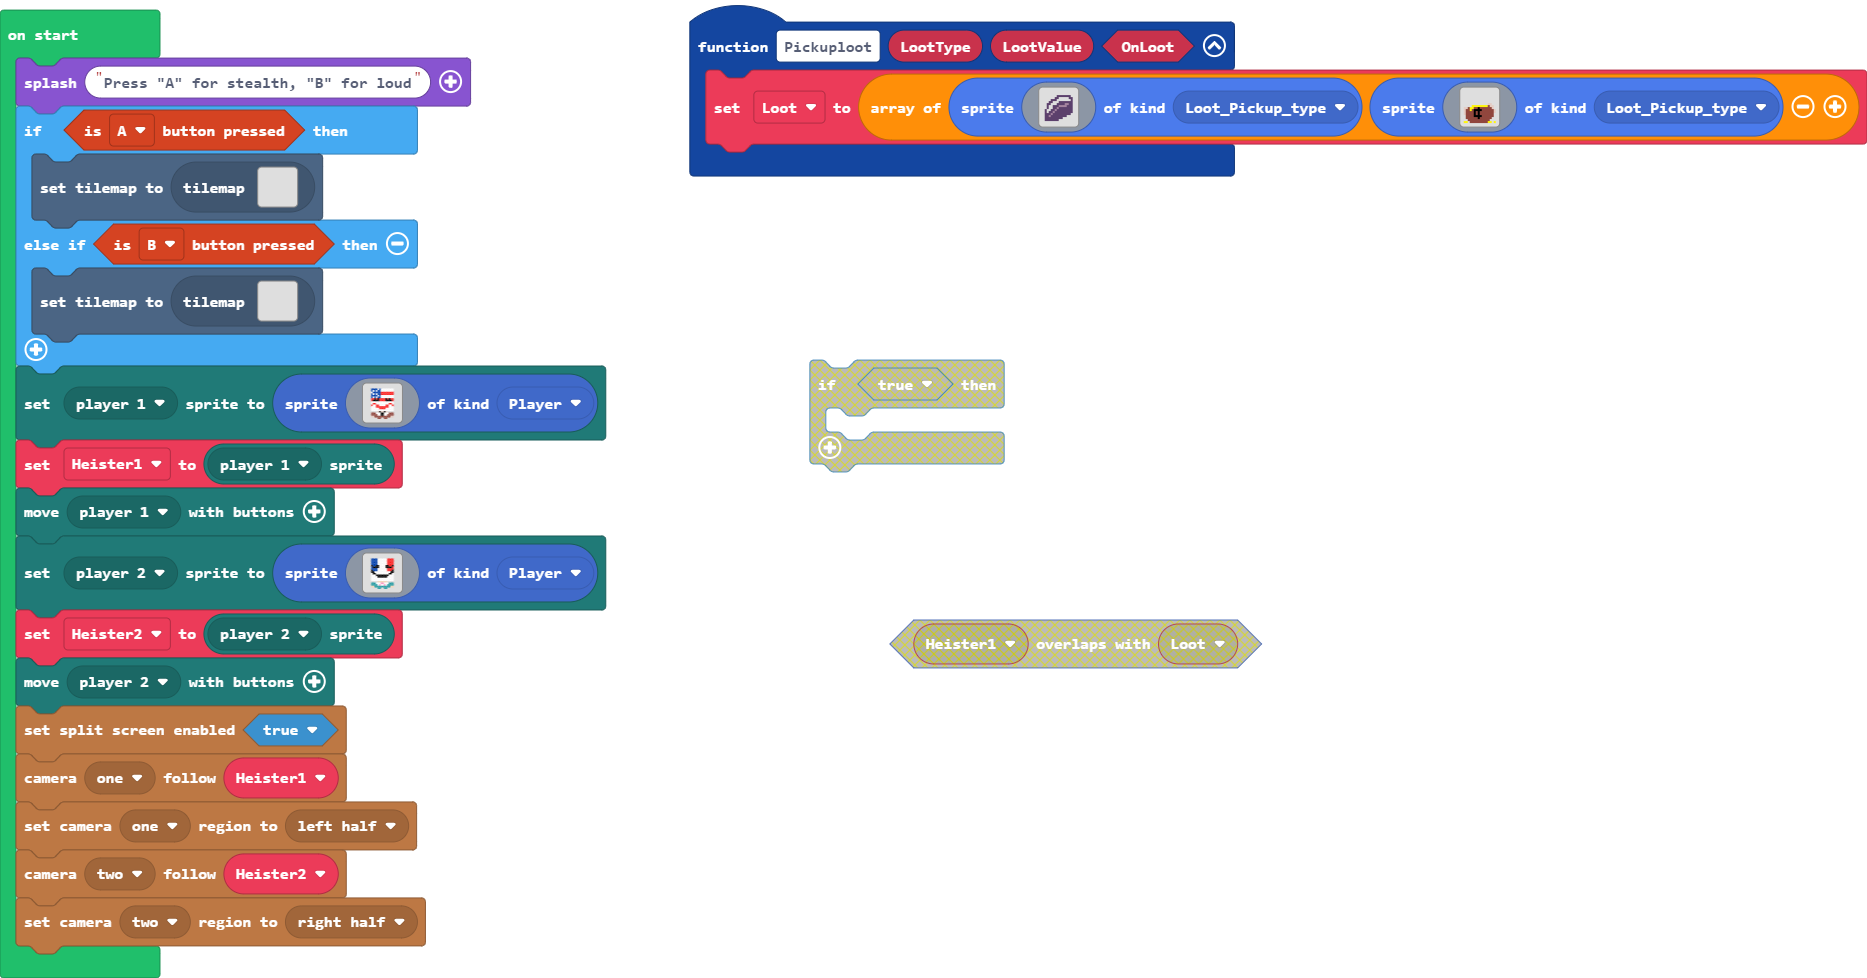
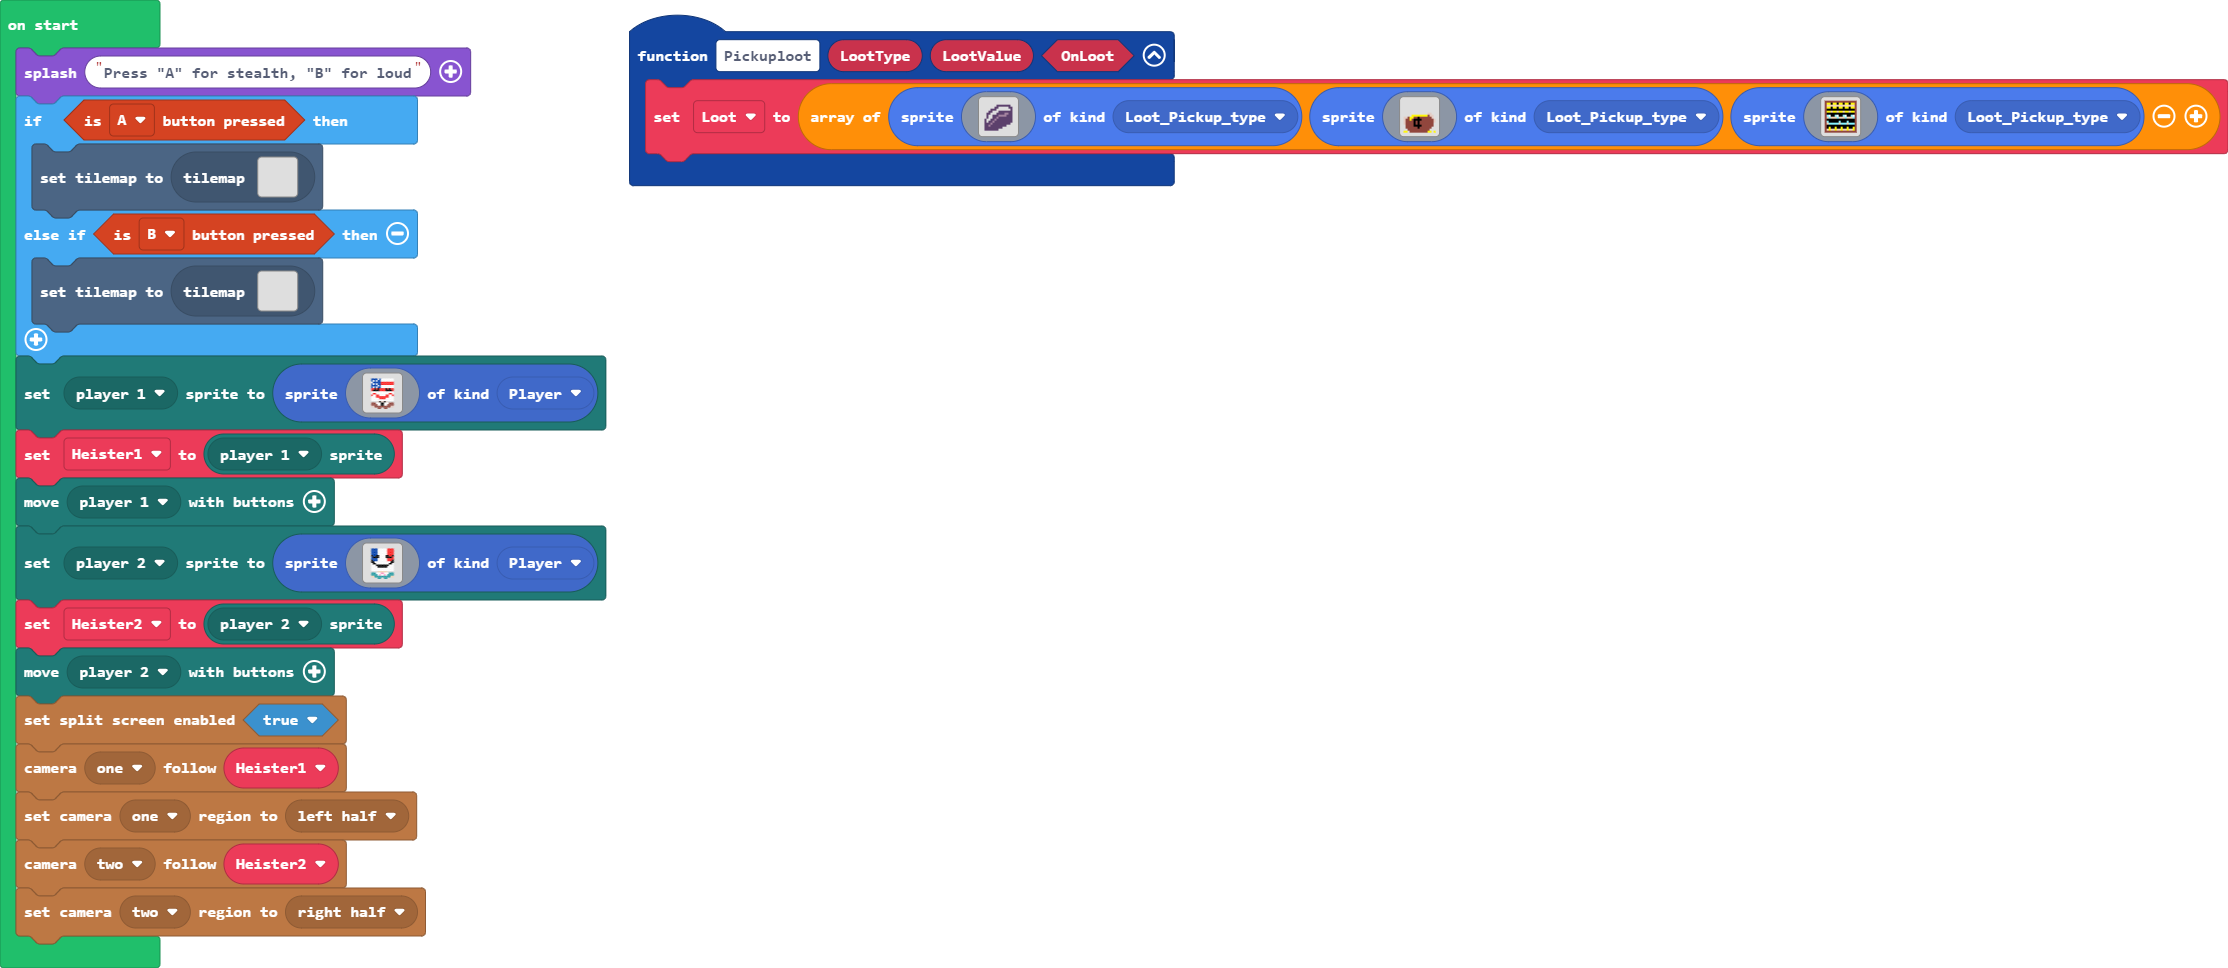
Update main.blocks, main.ts, images.g.jres, images.g.ts

Changed region(s): [[0.0, 0.0, 1.0, 1.0], [0.4349, 0.3409, 0.5592, 0.4959], [0.466, 0.6198, 0.6834, 0.6818]]

diff --git a/images.g.ts b/images.g.ts
@@ -139,6 +139,25 @@ d e e e e f e f e e e e e e e .
 ...77666666666677...
 .......66..66.......
 `;
+            case "image7":
+            case "Jewlery_Box":return img`
+e e e e e e e e e e e e e e e e 
+e 5 5 f 5 5 f 5 5 f 5 5 f 5 5 e 
+e 7 7 7 7 7 7 7 7 7 7 7 7 7 7 e 
+e 5 5 f 5 5 f 5 5 f 5 5 f 5 5 e 
+e f f f f f f f f f f f f f f e 
+e 5 5 7 5 5 7 5 5 7 5 5 7 5 5 e 
+e f f f f f f f f f f f f f f e 
+e 9 1 f f 9 1 f f 9 1 f f 9 1 e 
+e 7 9 7 7 7 9 7 7 7 9 7 7 7 9 e 
+e f f f f f f f f f f f f f f e 
+e 9 f f f f f 9 f f f 9 f f f e 
+e 7 9 9 9 9 9 7 9 9 9 7 9 9 9 e 
+e f f f f f f f f f f f f f f e 
+e f 5 f f 5 f f 5 f f 5 f f 5 e 
+e 7 5 7 7 5 7 7 5 7 7 5 7 7 5 e 
+e e e e e e e e e e e e e e e e 
+`;
         }
         return null;
     })

diff --git a/main.ts b/main.ts
@@ -2,7 +2,7 @@ namespace SpriteKind {
     export const Loot_Pickup_type = SpriteKind.create()
 }
 function Pickuploot (LootType: string, LootValue: number, OnLoot: boolean) {
-    Loot = [sprites.create(assets.image`Money_Bag`, SpriteKind.Loot_Pickup_type), sprites.create(assets.image`Bag_of_GOLD`, SpriteKind.Loot_Pickup_type)]
+    Loot = [sprites.create(assets.image`Money_Bag`, SpriteKind.Loot_Pickup_type), sprites.create(assets.image`Bag_of_GOLD`, SpriteKind.Loot_Pickup_type), sprites.create(assets.image`Jewlery_Box`, SpriteKind.Loot_Pickup_type)]
 }
 let Loot: Sprite[] = []
 game.splash("Press \"A\" for stealth, \"B\" for loud")
